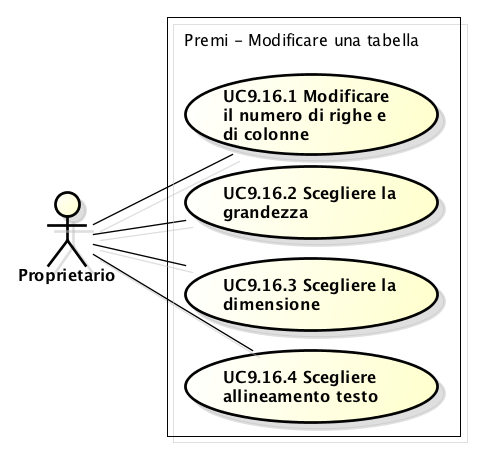
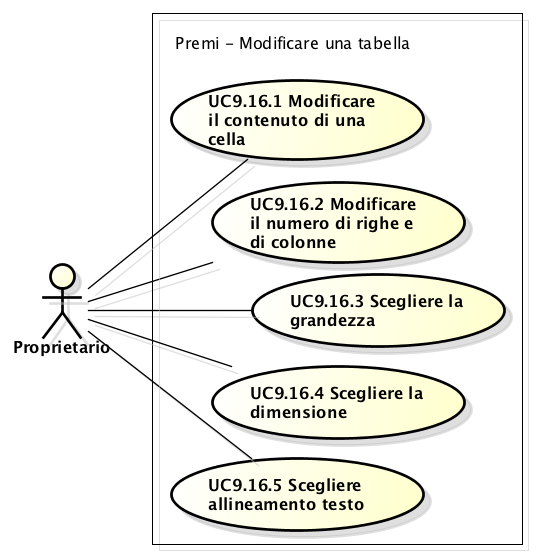
aggiunto caso d'uso modifica cella UC9.16.1

diff --git a/esterni/analisi_dei_requisiti/sections/casi_d_uso_9.tex b/esterni/analisi_dei_requisiti/sections/casi_d_uso_9.tex
@@ -299,16 +299,25 @@
 	\item \textbf{Precondizione:} Il sistema è in attesa che l'utente selezioni la modifica da apportare alla tabella e la tabella o il testo da modificare sono selezionati;
 	\item \textbf{Flusso principale degli eventi:}
 	\begin{enumerate}
-		\item L'utente può modificare il numero di righe e di colonne [UC9.16.1]
-		\item L'utente può cambiare la grandezza della tabella [UC9.16.2];
-		\item L'utente può cambiare il colore di sfondo della tabella [UC9.16.3];
-		\item L'utente può cambiare l'allineamento del testo [UC9.16.4];
+		\item L'utente può modificare il contenuto di una cella [UC9.16.1];
+		\item L'utente può modificare il numero di righe e di colonne [UC9.16.2];
+		\item L'utente può cambiare la grandezza della tabella [UC9.16.3];
+		\item L'utente può cambiare il colore di sfondo della tabella [UC9.16.4];
+		\item L'utente può cambiare l'allineamento del testo [UC9.16.5];
 		\item L'utente può cambiare la formattazione del testo [UC9.15];
 	\end{enumerate}
 	\item \textbf{Postcondizione:} Il sistema ha apportato le modifiche scelte alla tabella.
 \end{itemize}
 
-	\subsection{Caso d'uso UC9.16.1: Modificare il numero di righe e colonne della tabella}
+	\subsection{Caso d'uso UC9.16.1: Modificare il contenuto di una cella della tabella}
+	\begin{itemize}
+		\item \textbf{Attori:} Proprietario;
+		\item \textbf{Scopo e descrizione:} L'utente può modificare il contenuto di una cella della tabella, cioè aggiungere e modificare elementi di testo;
+		\item \textbf{Precondizione:} La cella da modificare è stata selezionata;
+		\item \textbf{Postcondizione:} Il contenuto della cella è stato modificato.
+	\end{itemize}
+	
+	\subsection{Caso d'uso UC9.16.2: Modificare il numero di righe e colonne della tabella}
 	\begin{itemize}
 		\item \textbf{Attori:} Proprietario;
 		\item \textbf{Scopo e descrizione:} L'utente può modificare la grandezza della tabella;
@@ -316,7 +325,7 @@
 		\item \textbf{Postcondizione:} La tabella è stata modificata nelle sue dimensioni secondo la scelta dell'utente.
 	\end{itemize}
 	
-	\subsection{Caso d'uso UC9.16.2: Scegliere grandezza della tabella}
+	\subsection{Caso d'uso UC9.16.3: Scegliere grandezza della tabella}
 	\begin{itemize}
 		\item \textbf{Attori:} Proprietario;
 		\item \textbf{Scopo e descrizione:} L'utente può modificare la grandezza della tabella;
@@ -324,7 +333,7 @@
 		\item \textbf{Postcondizione:} La tabella è stata modificata nelle sue dimensioni secondo la scelta dell'utente.
 	\end{itemize}
 	
-	\subsection{Caso d'uso UC9.16.3: Scegliere colore di sfondo della tabella}
+	\subsection{Caso d'uso UC9.16.4: Scegliere colore di sfondo della tabella}
 	\begin{itemize}
 		\item \textbf{Attori:} Proprietario;
 		\item \textbf{Scopo e descrizione:} L'utente può modificare il colore di sfondo della tabella;
@@ -332,7 +341,7 @@
 		\item \textbf{Postcondizione:} Lo sfondo della tabella o delle celle è stato modificato secondo la scelta dell'utente.
 	\end{itemize}
 	
-	\subsection{Caso d'uso UC9.16.4: Scegliere allineamento del testo}
+	\subsection{Caso d'uso UC9.16.5: Scegliere allineamento del testo}
 	\begin{itemize}
 		\item \textbf{Attori:} Proprietario;
 		\item \textbf{Scopo e descrizione:} L'utente può modificare l'allineamento del testo della tabella;
